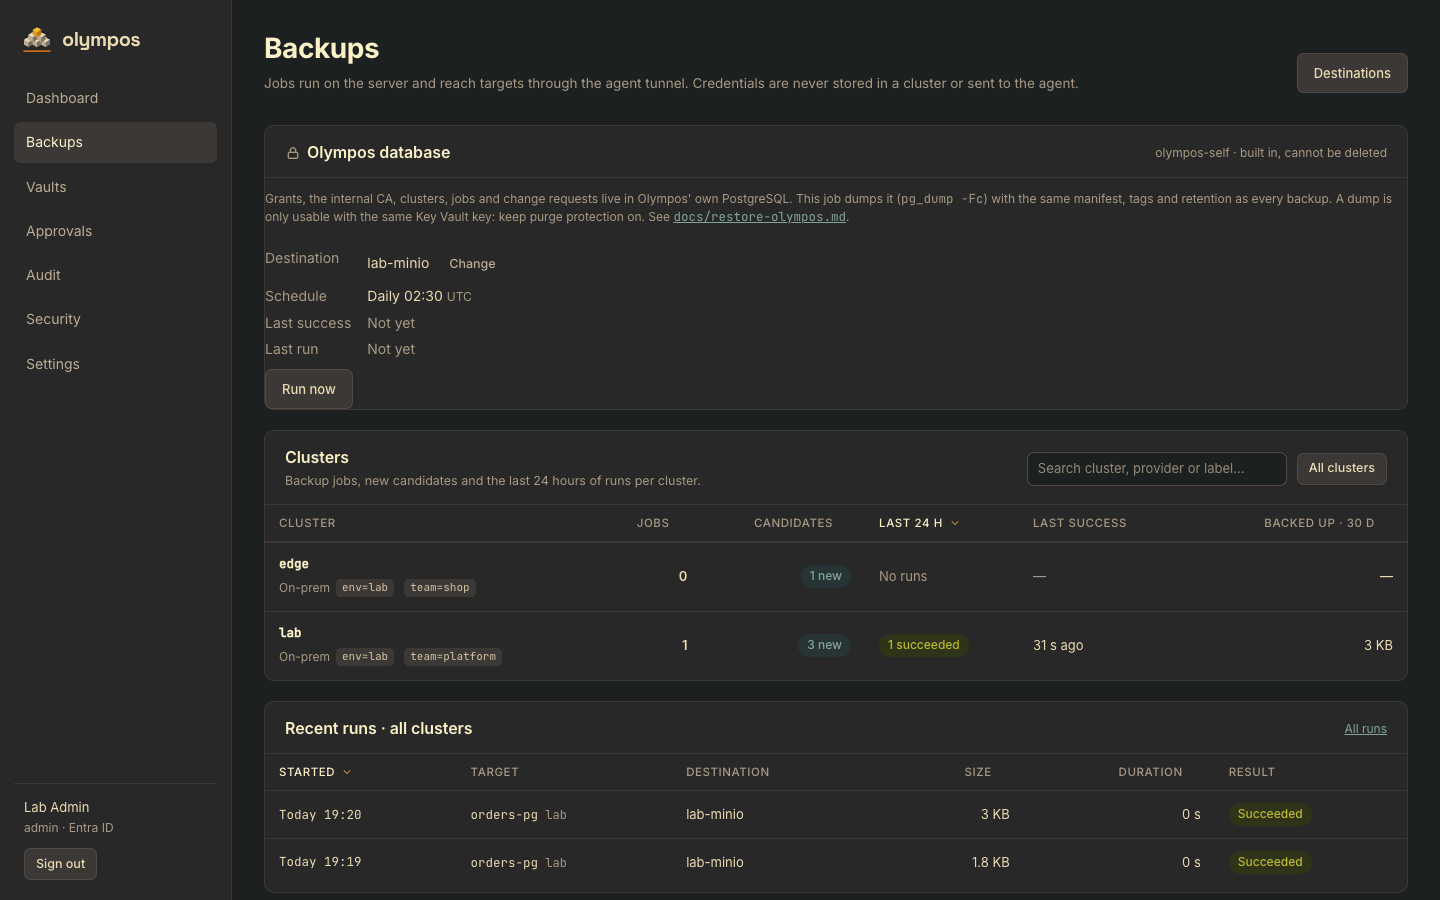
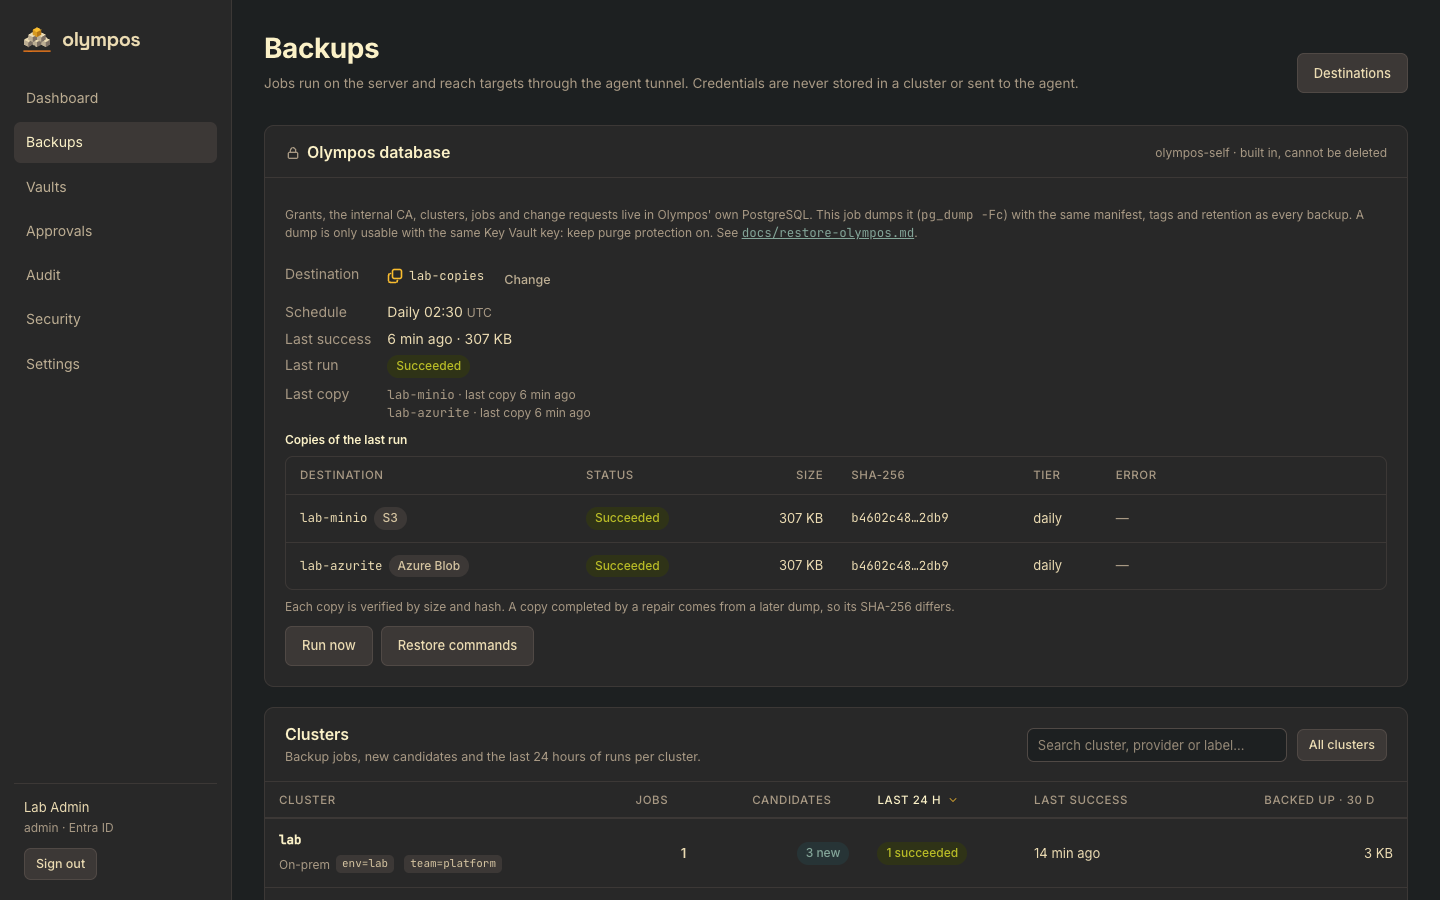
fix(web): padding for card bodies
.card-body was used by five cards (Olympos database, Kubernetes secrets,
sensitive data in ConfigMaps, TLS name changes) but never defined, so their
content touched the card's edges.

diff --git a/web/src/styles/app.css b/web/src/styles/app.css
@@ -454,6 +454,10 @@ code,
 .card h2.title {
   margin-bottom: 14px;
 }
+/* the content of a card under its .card-head (same side padding as the head) */
+.card-body {
+  padding: 16px 20px 20px;
+}
 .card-foot {
   padding: 12px 20px;
   font-size: 12px;
